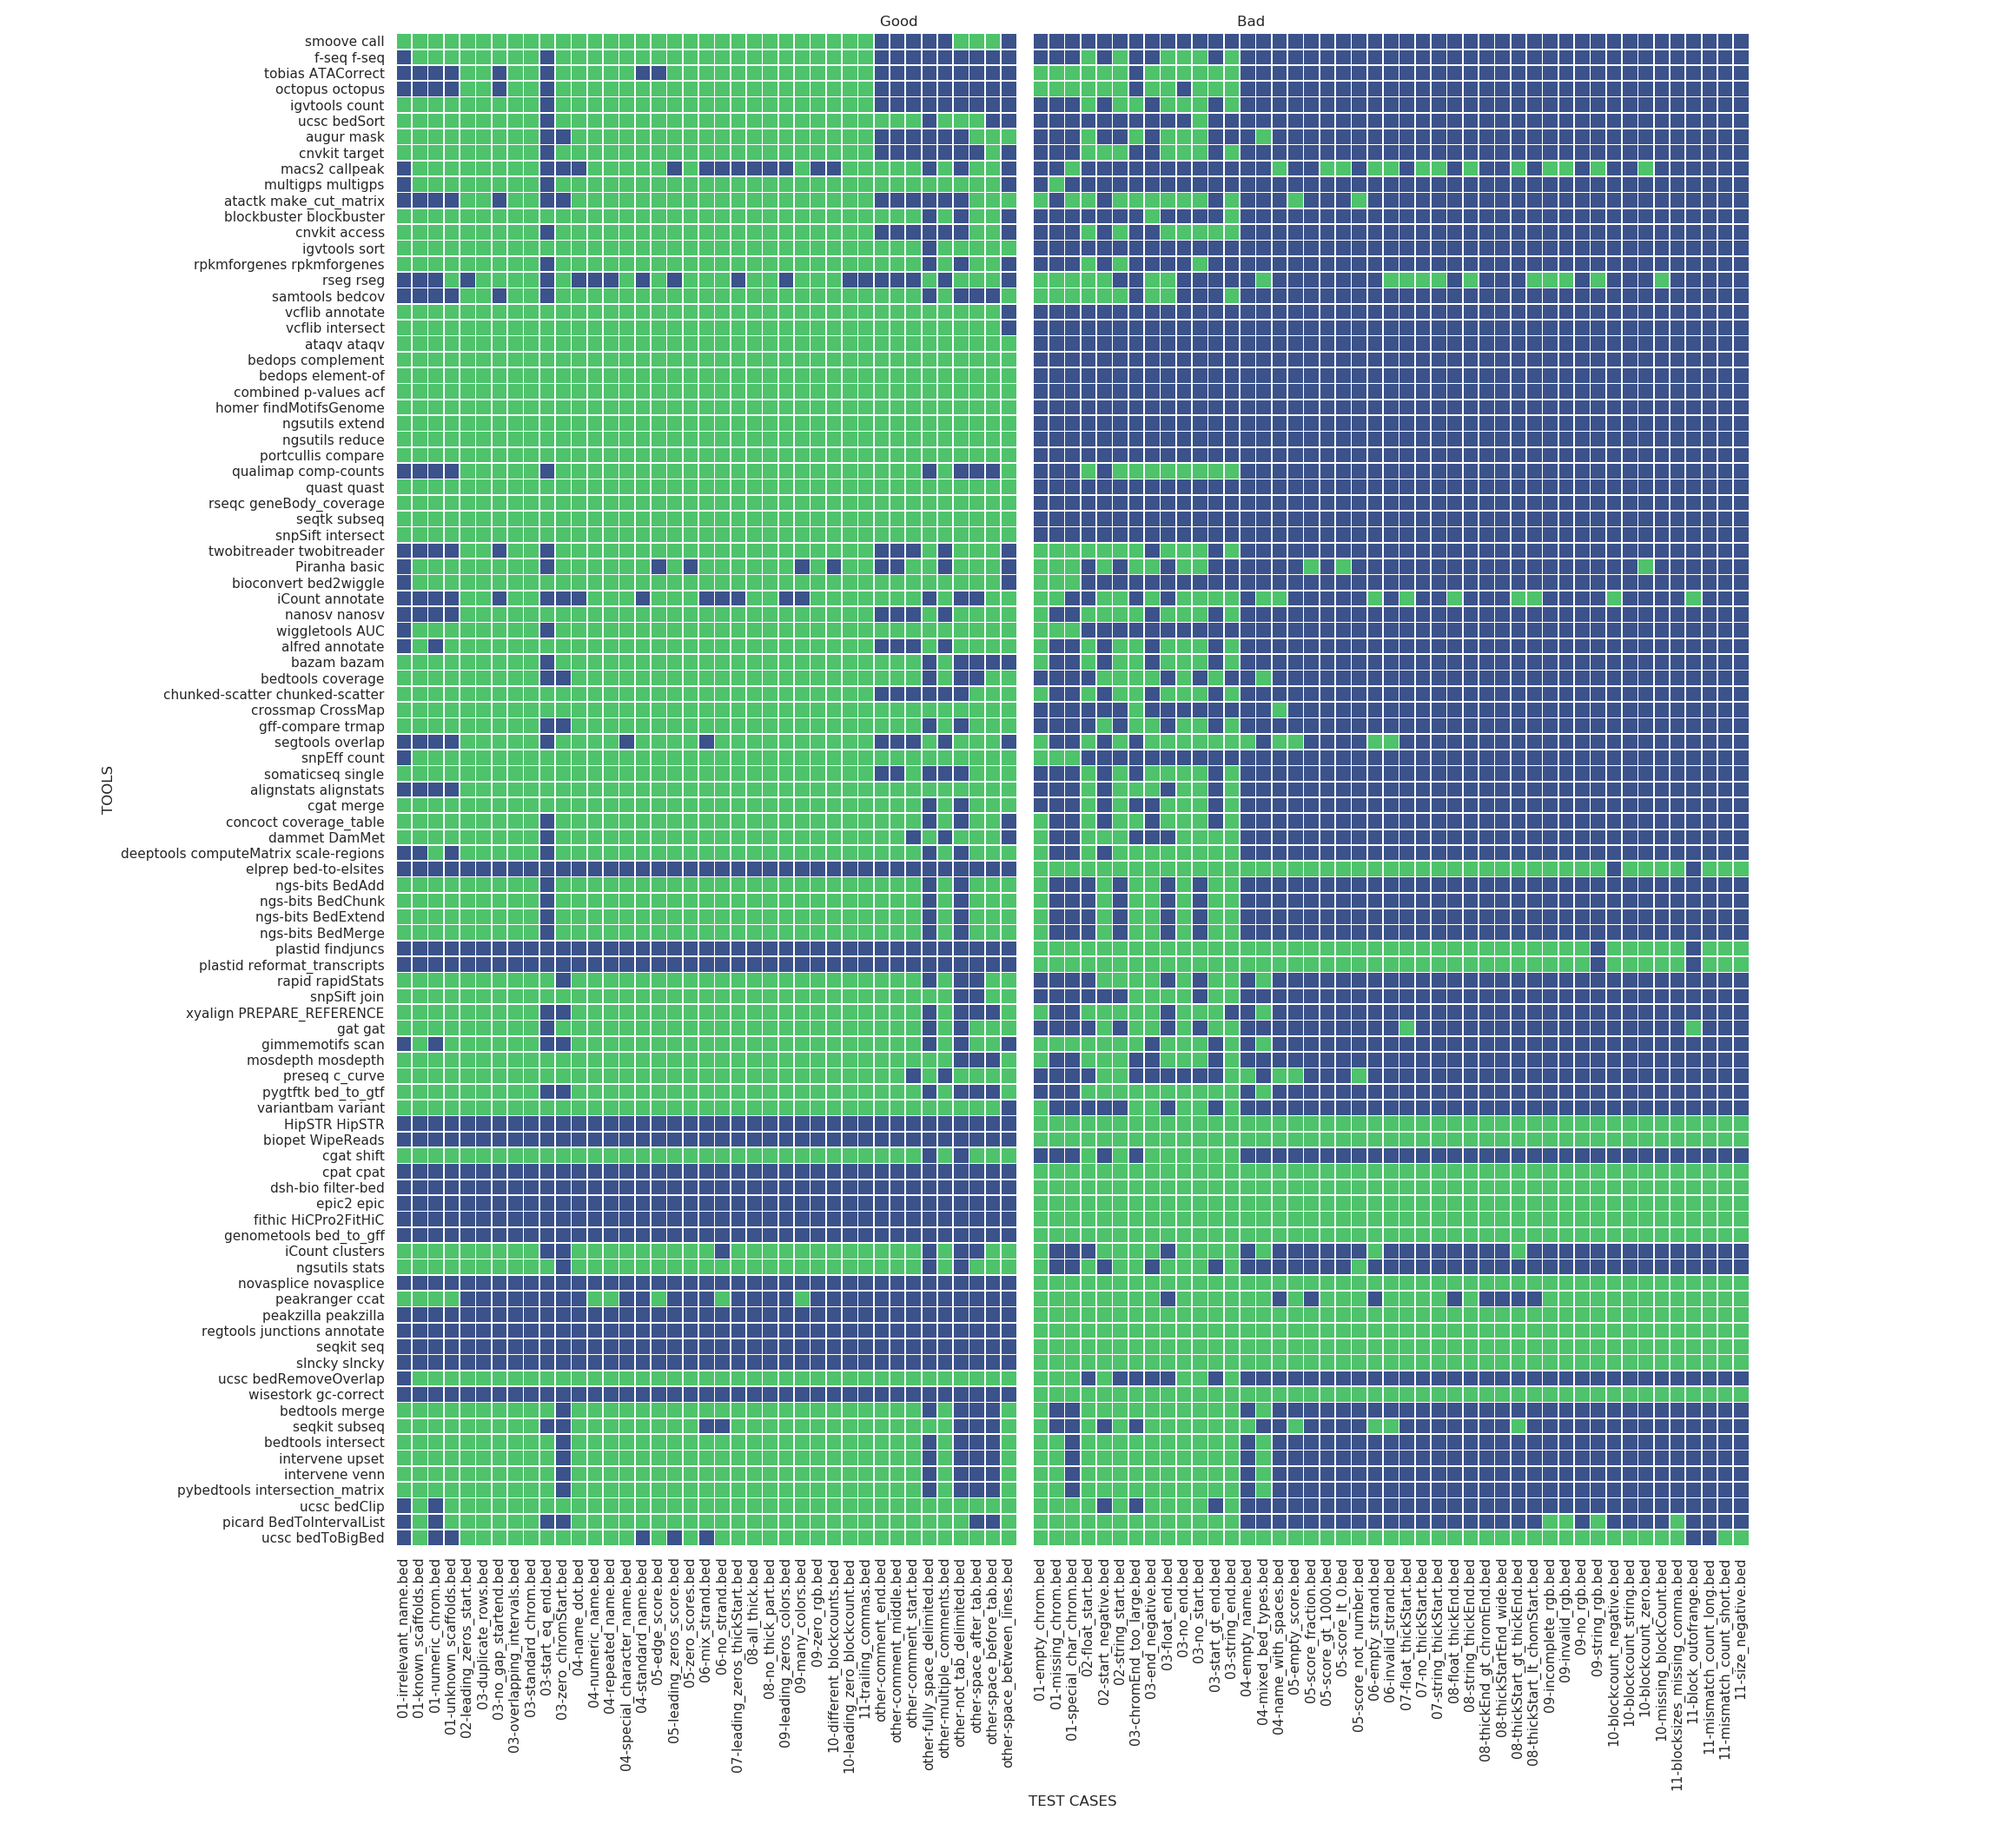
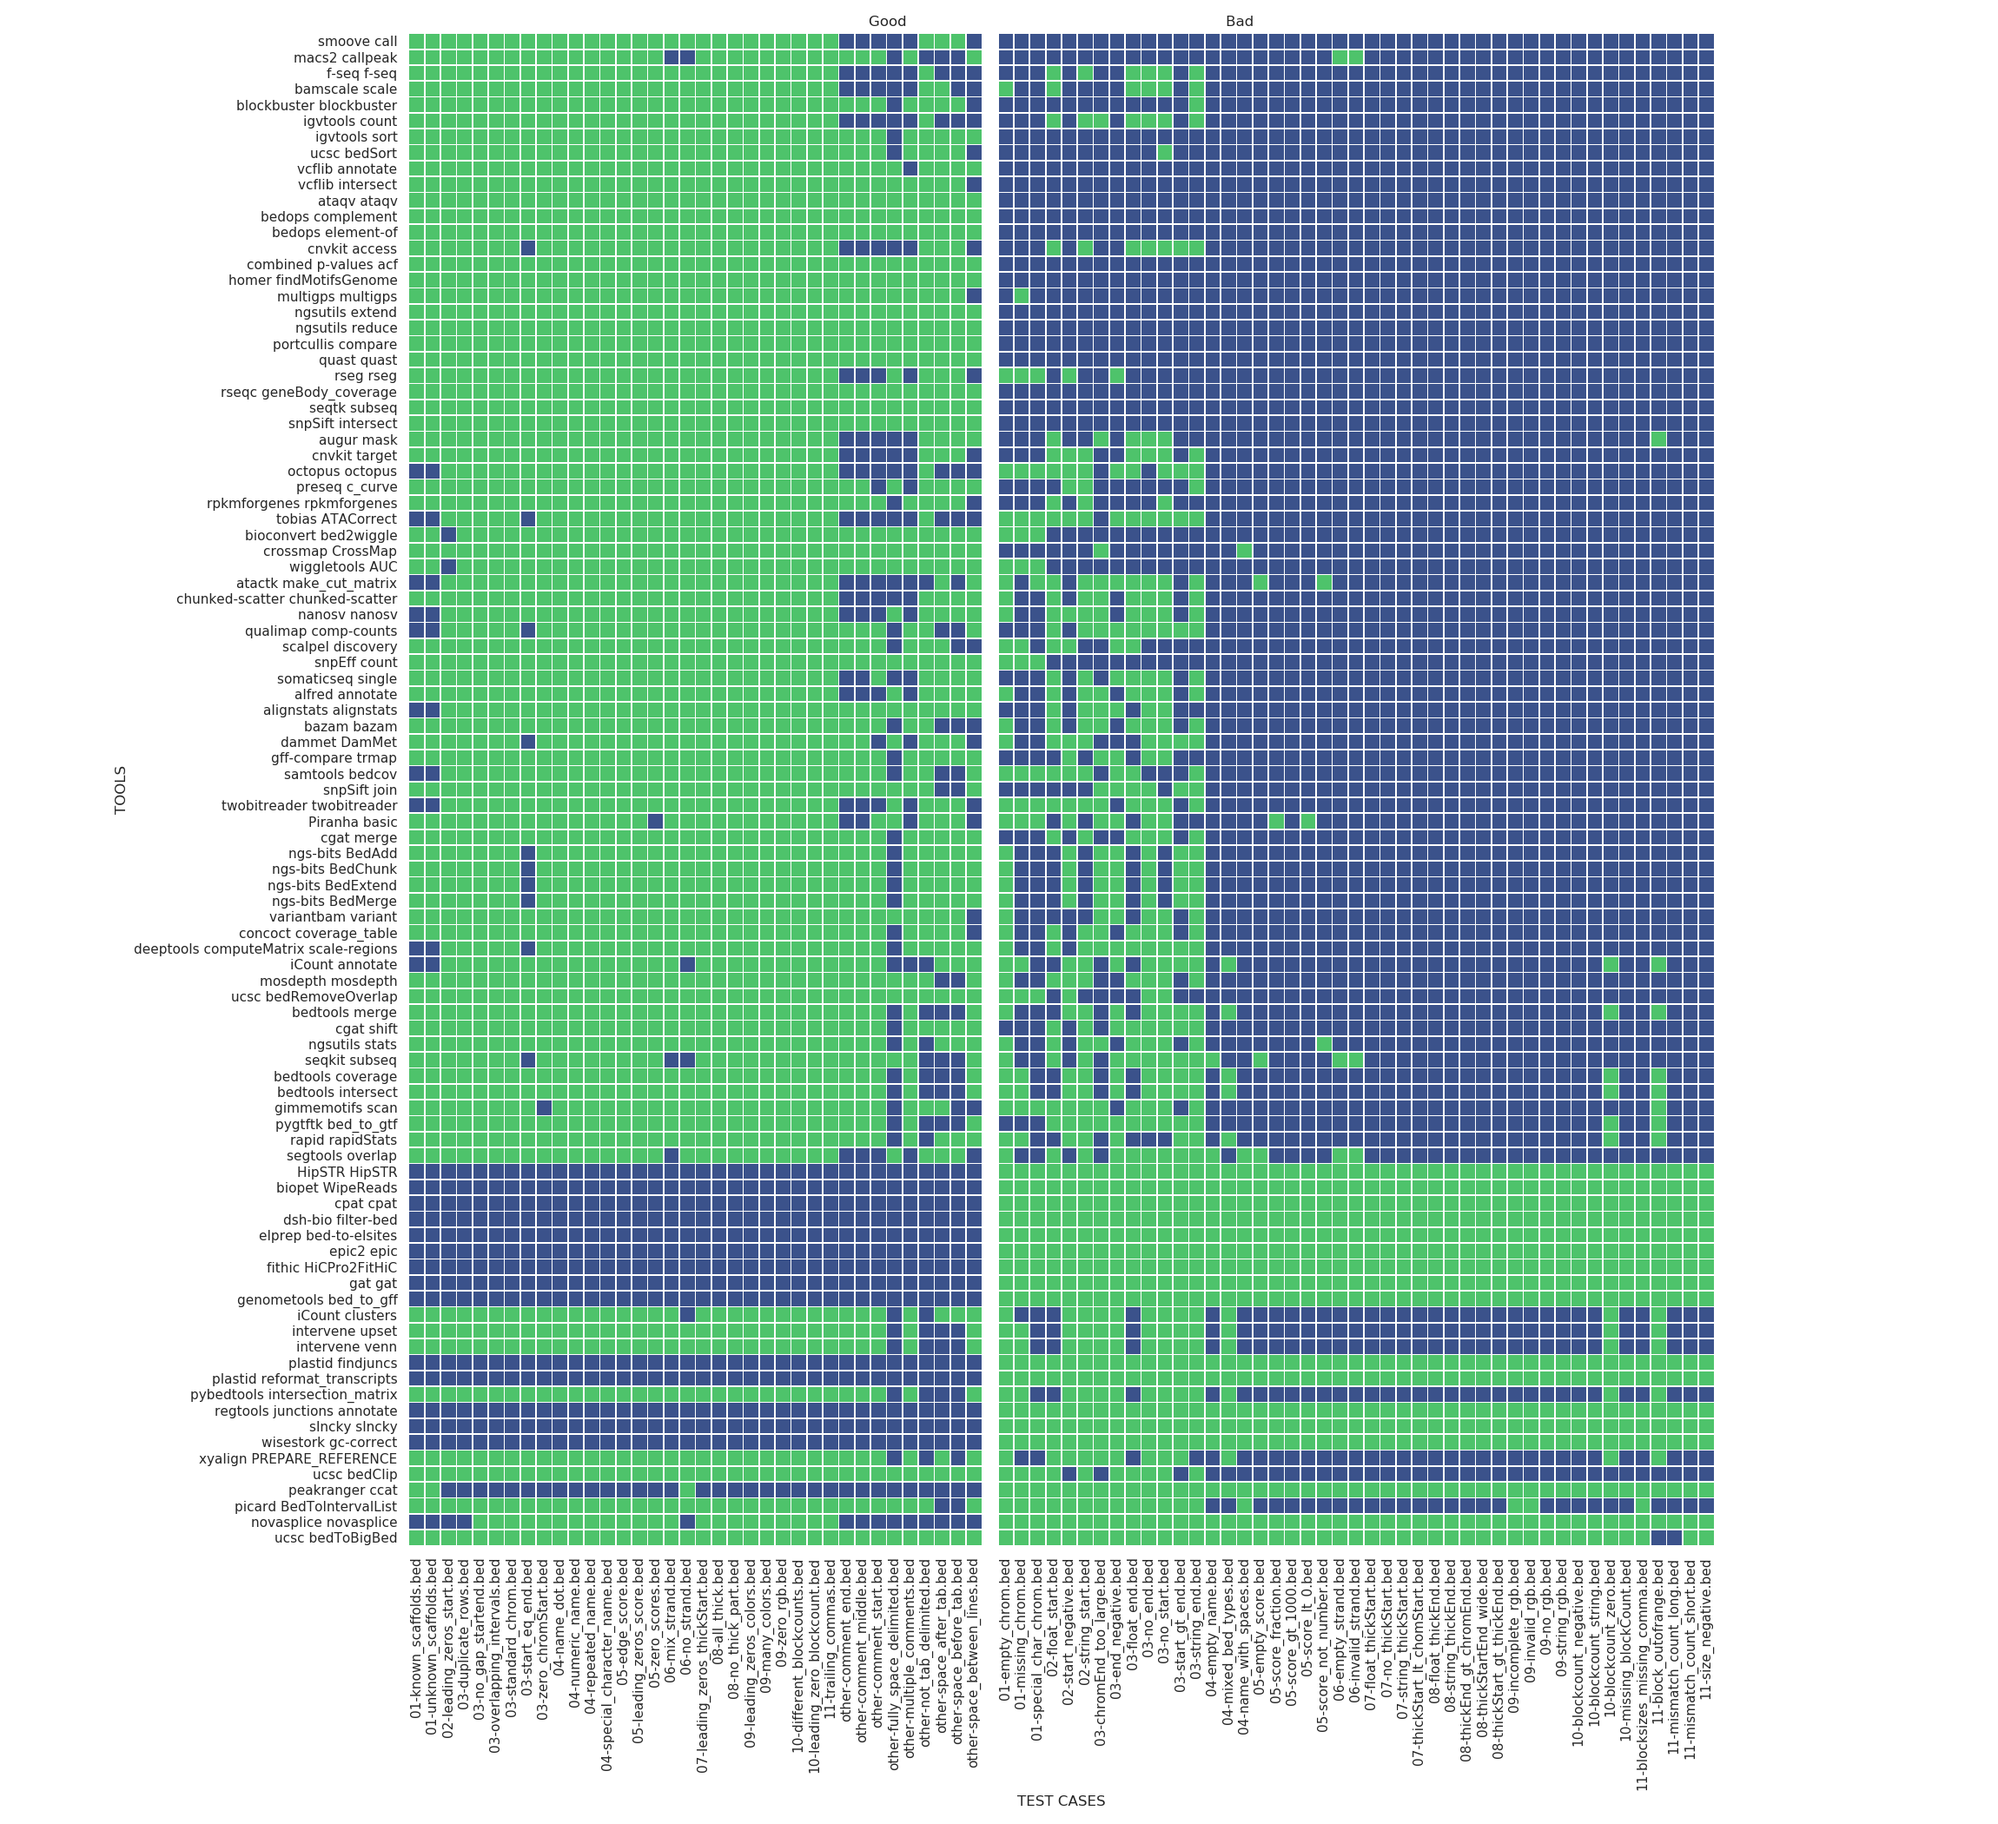
work

Changed region(s): [[0.0926, 0.0, 0.8952, 0.9595]]

diff --git a/bed/summarize.py b/bed/summarize.py
@@ -4,9 +4,11 @@ Summarize the results arrays into one-page heatmaps
 import argparse
 import sys
 import pickle
+import pdb
 from glob import glob
 
 import matplotlib.pyplot as plt
+import numpy as np
 
 from more_itertools import sort_together
 
@@ -26,6 +28,7 @@ if __name__ == '__main__':
         help="full filepath to output image file containing" +
         " the heatmap. (eps, pdf, png, raw, rgba, svg, jpg," +
         " jpeg, tif, tiff)")
+    parser.add_argument('--flatten', action='store_true', help="Combine subtools together")
     args = parser.parse_args()
 
     files = []
@@ -36,11 +39,13 @@ if __name__ == '__main__':
         sys.stderr.write('No files found matching the globs\n')
         exit(1)
 
-    # bed_correctness is a mapping of tool names to a dictionary where
+    # max_bed_correctness is a mapping of tool names to a dictionary where
     # the number of tests is mapped to the proportion of tests passed
     # Later, the number of tests is sorted to reveal BED3, ..., BED12
     # since BED3 will have the least tests, BED12 has the most, etc.
-    bed_correctness = {}
+    max_bed_correctness = {}
+    min_bed_correctness = {}
+    # pdb.set_trace()
     for file in files:
         with open(file, 'rb') as f:  # open each result array file
             l = pickle.load(f)
@@ -48,29 +53,36 @@ if __name__ == '__main__':
             correct_list = l[1]
             name_list = l[2]
             for i in range(len(num_correct)):
-                # this version aggregates over the main tool, using
-                # the best performing subtool as the representative
-                # name = name_list[i][:name_list[i].find(' ')]
+                if args.flatten:
+                    name = name_list[i]
+                    if name not in max_bed_correctness:
+                        max_bed_correctness[name] = {}
+                    max_bed_correctness[name][len(correct_list[i])] = \
+                        num_correct[i] / (len(correct_list[i]) - 1)
+                else:
+                    name = name_list[i][:name_list[i].find(' ')]
 
-                # if name not in bed_correctness:
-                #     bed_correctness[name] = {}
-                # if len(correct_list) in bed_correctness[name]:
-                #     bed_correctness[name][len(correct_list[i])] = \
-                #         max(bed_correctness[name][len(correct_list[i])],
-                #             num_correct[i] / (len(correct_list[i]) - 1))
-                # else:
-                #     bed_correctness[name][len(correct_list[i])] = \
-                #         num_correct[i] / (len(correct_list[i]) - 1)
+                    if name not in max_bed_correctness:
+                        max_bed_correctness[name] = {}
+                        min_bed_correctness[name] = {}
+                    if len(correct_list[i]) in max_bed_correctness[name]:
+                        max_bed_correctness[name][len(correct_list[i])] = \
+                            max(max_bed_correctness[name][len(correct_list[i])],
+                                num_correct[i] / (len(correct_list[i]) - 1))
+                        min_bed_correctness[name][len(correct_list[i])] = \
+                            min(min_bed_correctness[name][len(correct_list[i])],
+                                num_correct[i] / (len(correct_list[i]) - 1))
+                    else:
+                        max_bed_correctness[name][len(correct_list[i])] = \
+                            num_correct[i] / (len(correct_list[i]) - 1)
+                        min_bed_correctness[name][len(correct_list[i])] = \
+                            num_correct[i] / (len(correct_list[i]) - 1)
 
-                # This version counts each subtool separatly
-                name = name_list[i]
-                if name not in bed_correctness:
-                    bed_correctness[name] = {}
-                bed_correctness[name][len(correct_list[i])] = \
-                    num_correct[i] / (len(correct_list[i]) - 1)
+    if args.flatten:
+        min_bed_correctness = max_bed_correctness
 
-    programs = list(bed_correctness.keys())
-    lengths = sorted(list(bed_correctness[programs[0]].keys()))
+    programs = list(max_bed_correctness.keys())
+    lengths = sorted(list(max_bed_correctness[programs[0]].keys()))
 
     # heatmap_array is a list of lists where each list is of length 10 with
     # the proportion of passing tests from BED3 to BED12 in order.
@@ -78,21 +90,27 @@ if __name__ == '__main__':
     # overall best parser to worse parser.
     heatmap_array = []
     sorting_temp = []
+    display_array = []
     for program in programs:
         heatmap_array.append(
-            [bed_correctness[program][length] for length in lengths])
+            [(max_bed_correctness[program][length] + min_bed_correctness[program][length]) / 2 for length in lengths])
+        display_array.append(
+            [str(round(min_bed_correctness[program][length], 2)) + ' / ' + str(round(max_bed_correctness[program][length], 2)) for length in lengths]
+        )
         sorting_temp.append(sum(heatmap_array[-1]))
     
-    programs, heatmap_array, sorting_temp = sort_together(
-        [programs, heatmap_array, sorting_temp], key_list=[2]
+    programs, heatmap_array, display_array, sorting_temp = sort_together(
+        [programs, heatmap_array, display_array, sorting_temp], key_list=[3]
     )
-    
+
+    annot = True if args.flatten else np.array(display_array, dtype=object)
+    fmt = '.2g' if args.flatten else ''
     plt.figure(figsize=(39, 50))
 
     sizing = {'fontsize': 48}
     ax = sns.heatmap(heatmap_array, cmap=plt.get_cmap('bwr'),
         vmin=0, vmax=1, square=False, linewidths=.5, xticklabels=BED_NAMES,
-        yticklabels=programs, annot=True, cbar=True,
+        yticklabels=programs, annot=annot, cbar=True, fmt=fmt,
         cbar_kws={"fraction": 0.03, "pad": 0.01}
     )
     
